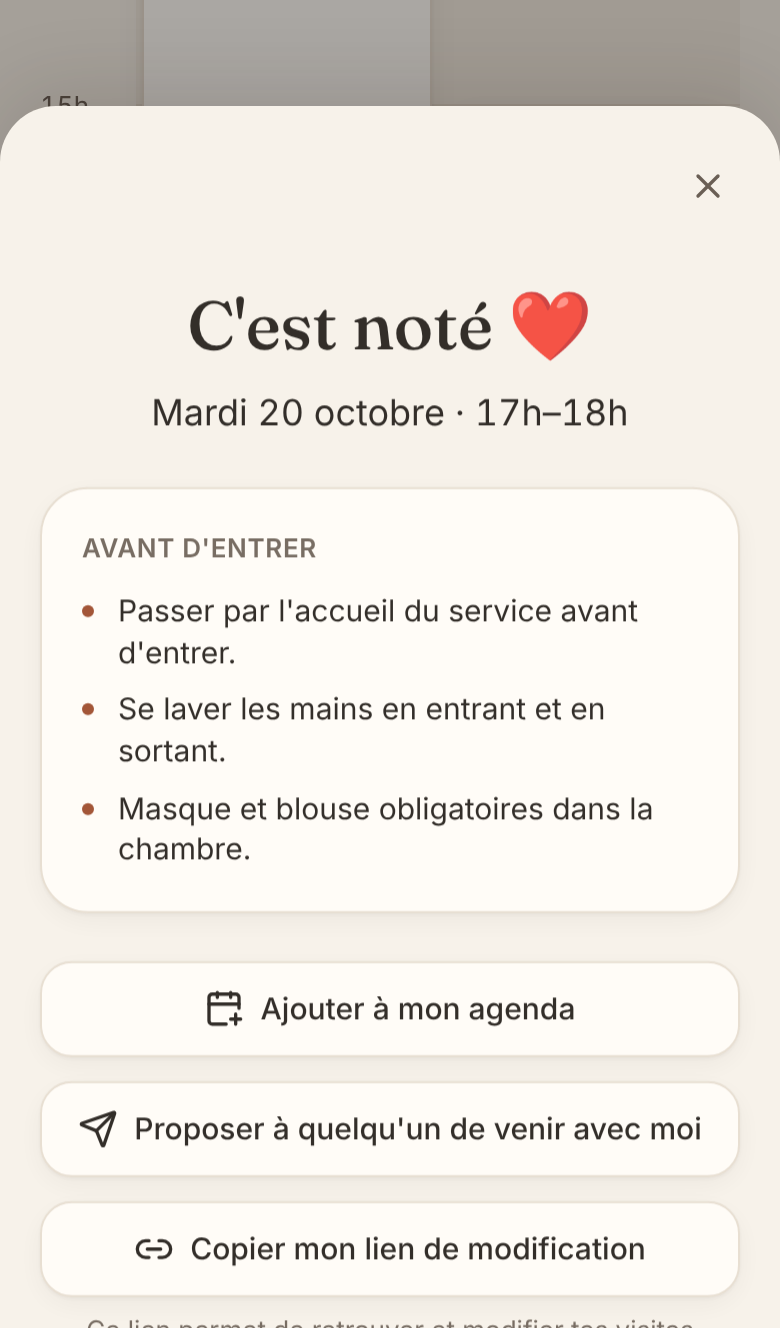
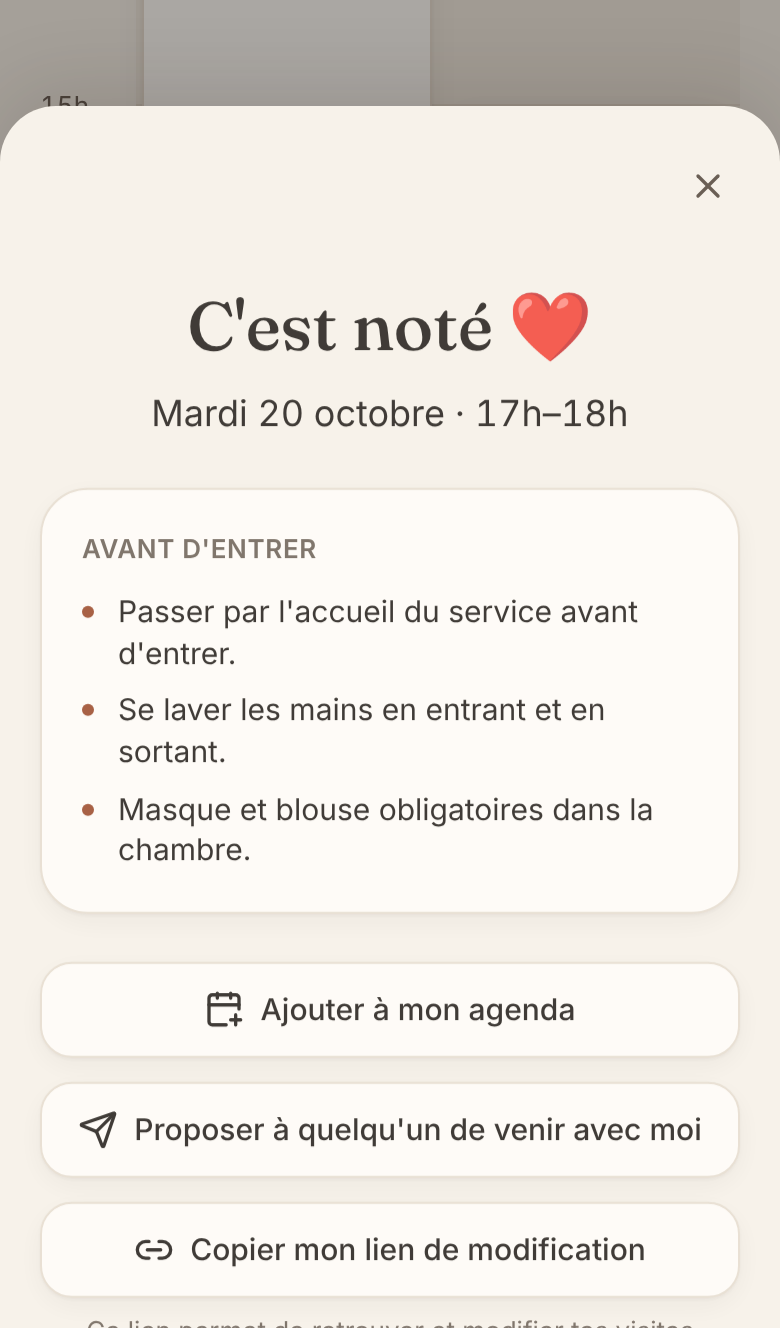
Admin : jusqu'à 60 jours visibles à l'avance, avec la date de fin affichée
Claude-Session: https://claude.ai/code/session_01R76xSXGCKCM45rabR7dskH

diff --git a/src/screens/AdminScreen.tsx b/src/screens/AdminScreen.tsx
@@ -392,6 +392,7 @@ function GuidelinesEditor({ token, run }: { token: string; run: Run }) {
 
 function SettingsEditor({ token, run, settings }: { token: string; run: Run; settings: Settings }) {
   const { online } = useData()
+  const now = useNow()
   const [s, setS] = useState(settings)
   useEffect(() => setS(settings), [settings])
   const hours: number[] = []
@@ -421,8 +422,18 @@ function SettingsEditor({ token, run, settings }: { token: string; run: Run; set
           <option value="">Aucune</option>
           {[60, 90, 120, 180, 240].map((m) => <option key={m} value={m}>{fmtDuration(m)}</option>)}
         </Select>
-        <Select label="Jours visibles" value={s.days_ahead} onChange={(e) => set('days_ahead', Number(e.target.value))}>
-          {[7, 10, 14, 21, 30].map((n) => <option key={n} value={n}>{n} jours</option>)}
+        <Select
+          className="col-span-2"
+          label="Jours visibles à l'avance"
+          hint="avance chaque jour"
+          value={s.days_ahead}
+          onChange={(e) => set('days_ahead', Number(e.target.value))}
+        >
+          {[...new Set([7, 14, 21, 30, 45, 60, s.days_ahead])].sort((a, b) => a - b).map((n) => (
+            <option key={n} value={n}>
+              {n} jours · jusqu'au {dayLong(addDays(now.day, n - 1))}
+            </option>
+          ))}
         </Select>
       </div>
       <Input label="Nom de l'app" value={s.app_name} maxLength={40} onChange={(e) => set('app_name', e.target.value)} />
